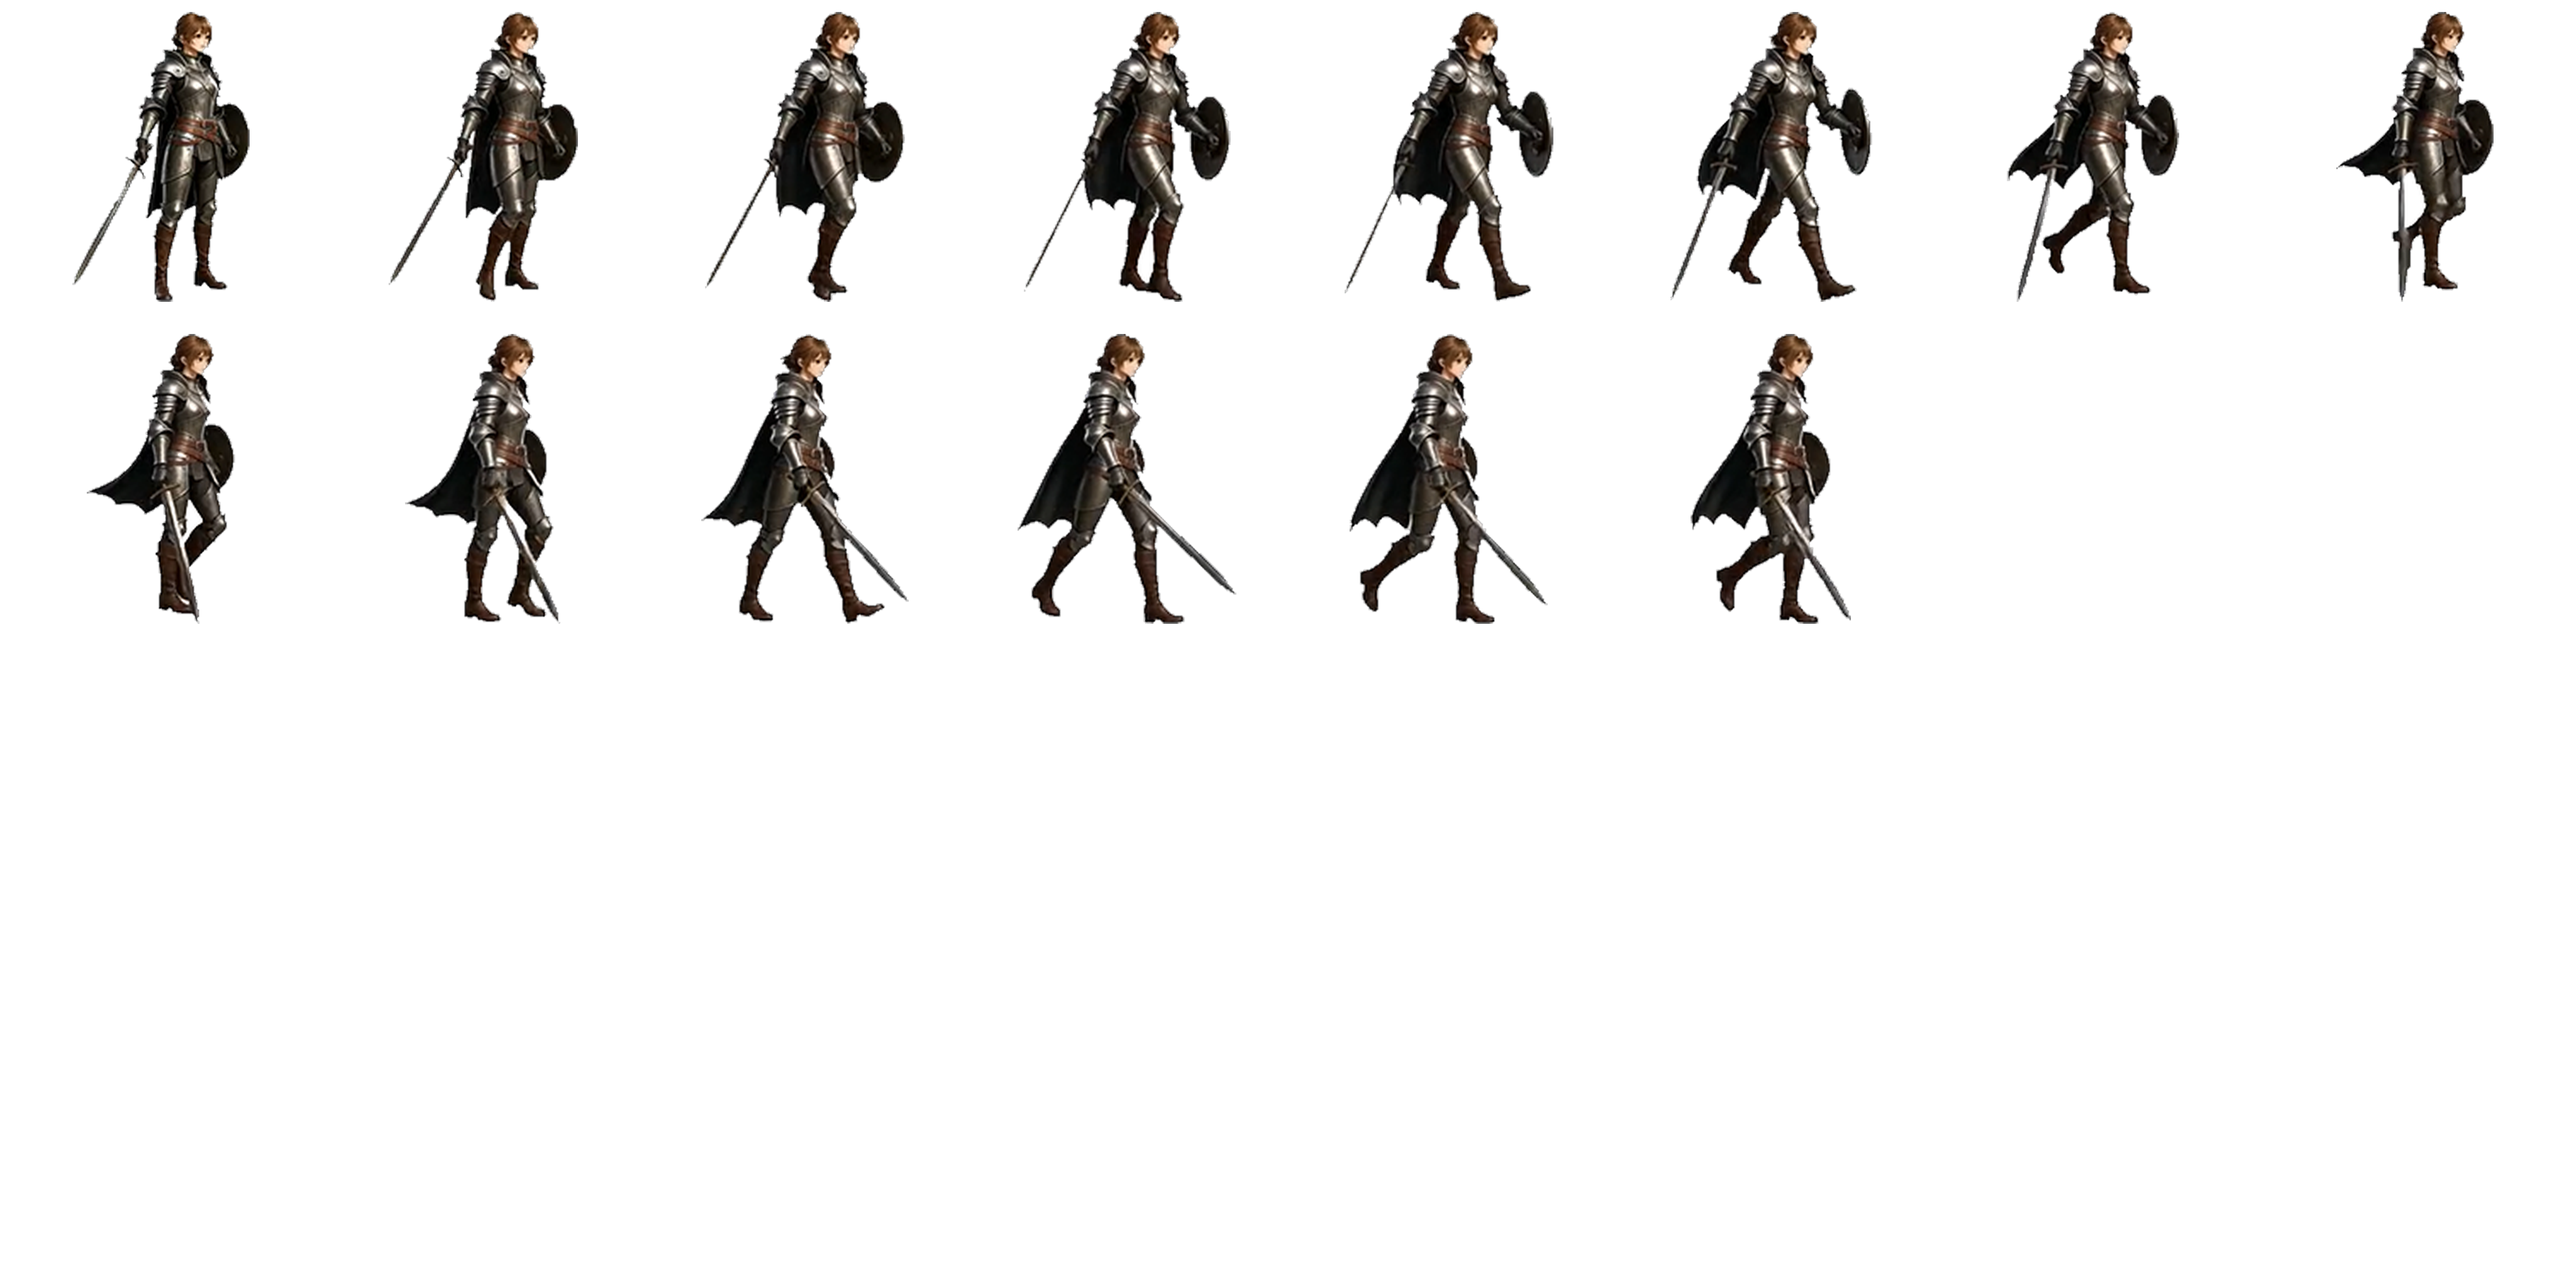
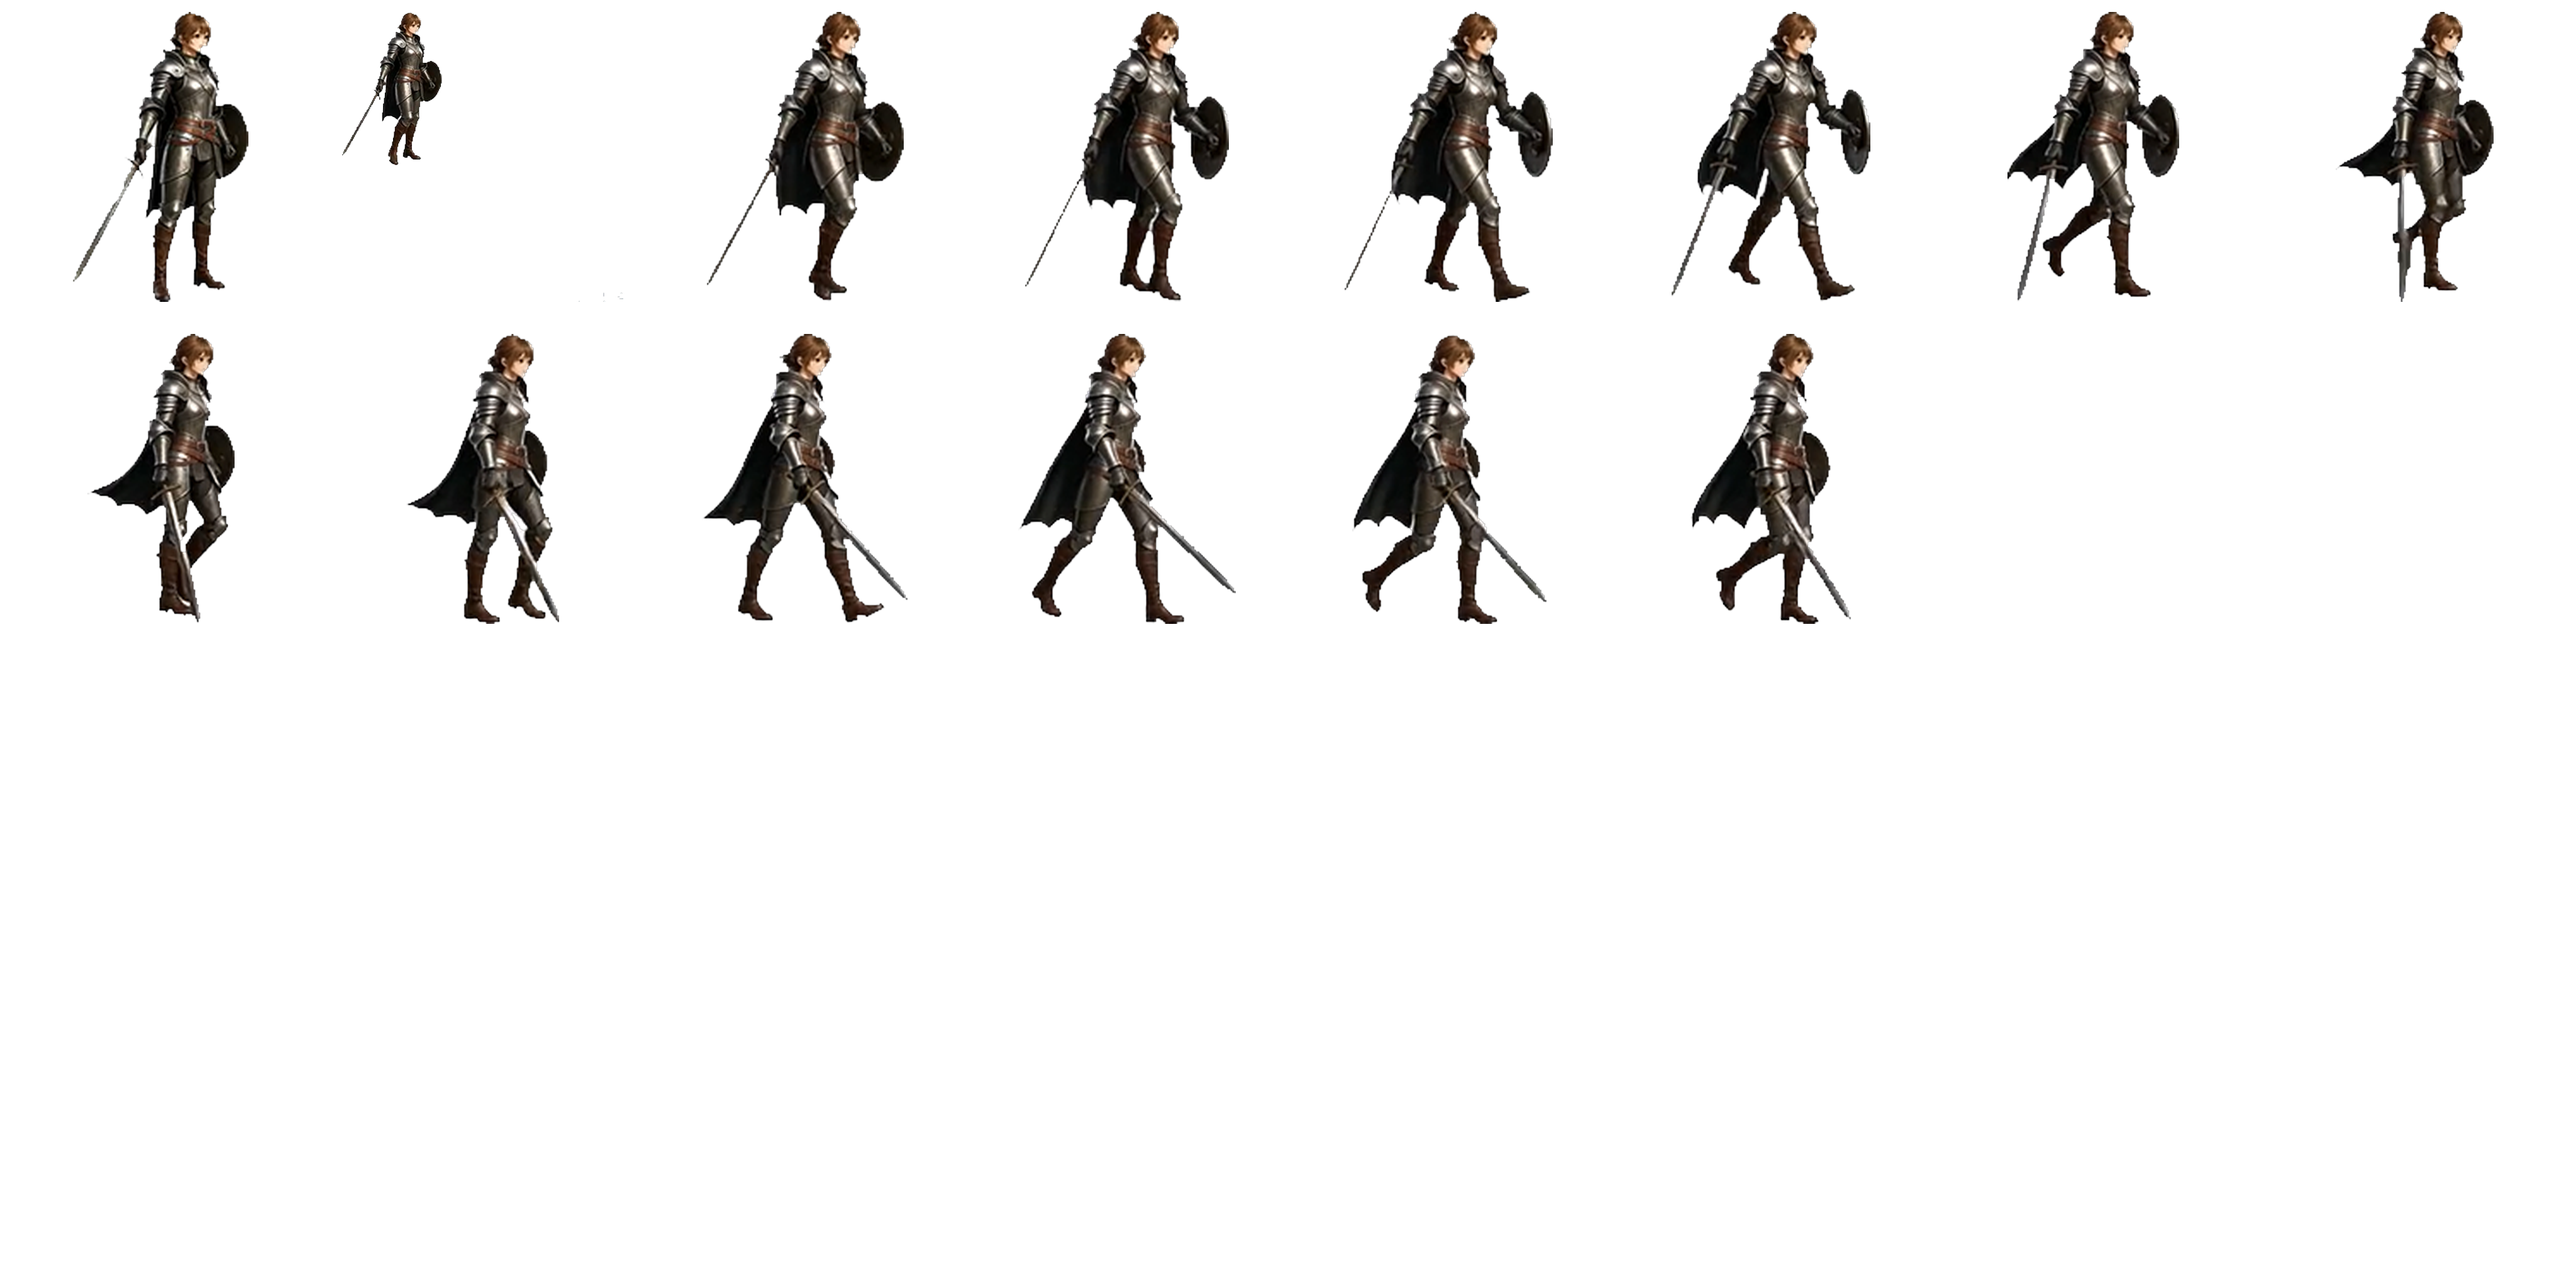
feat(companion): 伊莉丝新增剑精通/持盾防御并接通修炼升级——新 walking.png 替换（14帧同规格）；队友技能经验链路：近战命中+剑精通、防御姿态/弹反+持盾防御、露娜魔法经 SkillManager 队友分支自动修炼，队友技能栏实时刷新 + 单测15项

diff --git a/src/ai/companion-ai.js b/src/ai/companion-ai.js
@@ -20,6 +20,7 @@ import { EnergyManager, ENERGY_ITEM } from '../systems/energy-manager.js';
 import { EffectManager } from '../effects/effect-manager.js';
 import { FloatingTextEffect } from '../effects/floating-text.js';
 import { getConsumableEffect, applyConsumableEffect } from '../config/consumable.js';
+import { grantCompanionSkillExp } from '../systems/skill-system.js';
 import { AimHelper } from '../utils/aim-helper.js';
 import {
     DEFAULT_MAGE_AI, decideCompanionAction, pickCompanionSpell,
@@ -1044,6 +1045,12 @@ export class CompanionAI {
             this._defendPhase = 'hold';
             this._defendTimer = cfg.defendHoldMs || 2000;
             c._defending = true; // 持盾防御 + 常态弹反生效
+            // 持盾防御修炼：每次进入防御姿态按 meleeBlock 给经验（弹反另计，见 Companion.takeDamage）
+            const sd = c.skills && c.skills.shieldDefense;
+            if (sd) {
+                const rw = sd.expRewards || {};
+                grantCompanionSkillExp(c, 'shieldDefense', rw.meleeBlock || 2);
+            }
         } else if (this._defendPhase === 'hold' && this._defendTimer <= 0) {
             this._defendPhase = 'exit';
             this._defendTimer = cfg.defendExitMs || 500;
@@ -1084,6 +1091,14 @@ export class CompanionAI {
         if (d > range + 20) return; // 目标走出范围：空挥
         const dmg = Math.max(1, Math.floor((c.data.atk || 0) * (this.cfg.attackDamageMul || 1.25)));
         if (typeof t.takeDamage === 'function') t.takeDamage(dmg, c, 'physical');
+        // 剑精通修炼：命中 +hit，击杀 +kill（与玩家 addMeleeExp 同 expRewards）
+        const sm = c.skills && c.skills.swordMastery;
+        if (sm) {
+            const rw = sm.expRewards || {};
+            let gained = rw.hit || 0;
+            if (t.hp <= 0) gained += rw.kill || 0;
+            if (gained > 0) grantCompanionSkillExp(c, 'swordMastery', gained);
+        }
         if (EffectManager) {
             EffectManager.add(new FloatingTextEffect(t.x, t.y - 30, `-${dmg}`, '#ffb45e'));
         }

diff --git a/src/entities/companion.js b/src/entities/companion.js
@@ -8,7 +8,7 @@
 import { computeMaxExp } from '../config/exp-system.js';
 import { allocateOnLevelUp } from '../config/companion-growth.js';
 import { canEquipSlot, getEquipmentBonuses, isOneHandedItem } from '../ui/equip/equip-rules.js';
-import { buildSkillMap, restoreSkills } from '../systems/skill-system.js';
+import { buildSkillMap, restoreSkills, grantCompanionSkillExp } from '../systems/skill-system.js';
 import COMBAT_FORMULAS from '../../data/combat-formulas.json';
 
 const ATTR_KEYS = ['str', 'dex', 'int', 'con', 'wis', 'luck'];
@@ -242,6 +242,12 @@ export class Companion {
                 if (typeof attacker.applyKnockback === 'function') {
                     const angle = Math.atan2(attacker.y - this.y, attacker.x - this.x);
                     attacker.applyKnockback(angle, defense.parryKnockback || 100);
+                }
+                // 持盾防御修炼：弹反成功 +parry 经验（与玩家 addShieldDefenseExp 同 expRewards）
+                const sd = this.skills && this.skills.shieldDefense;
+                if (sd) {
+                    const rw = sd.expRewards || {};
+                    grantCompanionSkillExp(this, 'shieldDefense', rw.parry || 10);
                 }
             }
             const dealt = raw * remainingRatio;

diff --git a/src/systems/skill-system.js b/src/systems/skill-system.js
@@ -95,6 +95,26 @@ export function grantSkillExp(owner, skillId, amount, opts = {}) {
     return leveled;
 }
 
+/** 队友技能修炼（2026-08-15 伊莉丝剑精通/持盾防御、露娜魔法）：纯函数升级 + 队友技能栏刷新 */
+export function grantCompanionSkillExp(companion, skillId, amount) {
+    const leveled = grantSkillExp(companion, skillId, amount);
+    if (amount > 0 && getSkill(companion, skillId)) {
+        refreshCompanionSkillPanel();
+    }
+    return leveled;
+}
+
+/** 队友技能栏刷新：面板打开且停在"技能"页时重绘（无面板/未初始化忽略） */
+export function refreshCompanionSkillPanel() {
+    if (typeof window === 'undefined') return;
+    try {
+        const panel = window.Game && window.Game.CompanionPanel;
+        if (panel && typeof panel.refreshSkillTabIfOpen === 'function') {
+            panel.refreshSkillTabIfOpen();
+        }
+    } catch (_e) { /* 面板未初始化/场景切换中忽略 */ }
+}
+
 /**
  * 通用技能升级回调（玩家 SkillManager.onLevelUp 的通用版）：
  * 按 effectFormula 里的属性奖励字段应用（strBonus/dexBonus/intBonus/conBonus/wisBonus/luckBonus），

diff --git a/src/ui/skill-manager.js b/src/ui/skill-manager.js
@@ -5,6 +5,7 @@ import { isSwordCategory } from '../config/gun-ammo.js';
 import { getElement } from '../utils/dom-utils.js';
 import { TimerManager } from '../utils/timer-manager.js';
 import { SystemUI } from './system-ui.js';
+import { grantCompanionSkillExp } from '../systems/skill-system.js';
 import {
     getSkillMagicCategory,
     getSkillMagicTier,
@@ -16,6 +17,11 @@ export const SkillManager = {
     _currentFilter: 'all', // 当前筛选条件：all|passive|active|magic
     _addSkillExp(player, skill, gained) {
         if (!skill || skill.level >= skill.maxLevel || gained <= 0) return;
+        // 队友技能修炼（露娜魔法等）：走纯函数升级（companion-safe），不经过玩家技能面板
+        if (player && player._faction === 'companion') {
+            grantCompanionSkillExp(player, skill.id, gained);
+            return;
+        }
         SkillLevelSystem.addExp(skill, gained, player);
         SkillLevelSystem.refreshUI(skill.id);
     },

diff --git a/src/ui/companion-panel.js b/src/ui/companion-panel.js
@@ -536,6 +536,16 @@ export const CompanionPanel = {
         return wrap.innerHTML;
     },
 
+    /** 队友技能修炼刷新入口：面板打开且停在"技能"页时重绘（战斗中获得技能经验后调用） */
+    refreshSkillTabIfOpen() {
+        if (!this._overlay || this._overlay.style.display !== 'block') return;
+        if (this._currentTab !== 'skill') return;
+        const m = this._member();
+        if (!m) return;
+        const skillTab = this._overlay.querySelector('#tab-skill');
+        if (skillTab) skillTab.innerHTML = this._skillHtml(m);
+    },
+
     _bindEquipPage(m) {
         this._renderEquipSlots(m);
         const cells = this._overlay.querySelectorAll('.companion-pack-grid .companion-cell');
